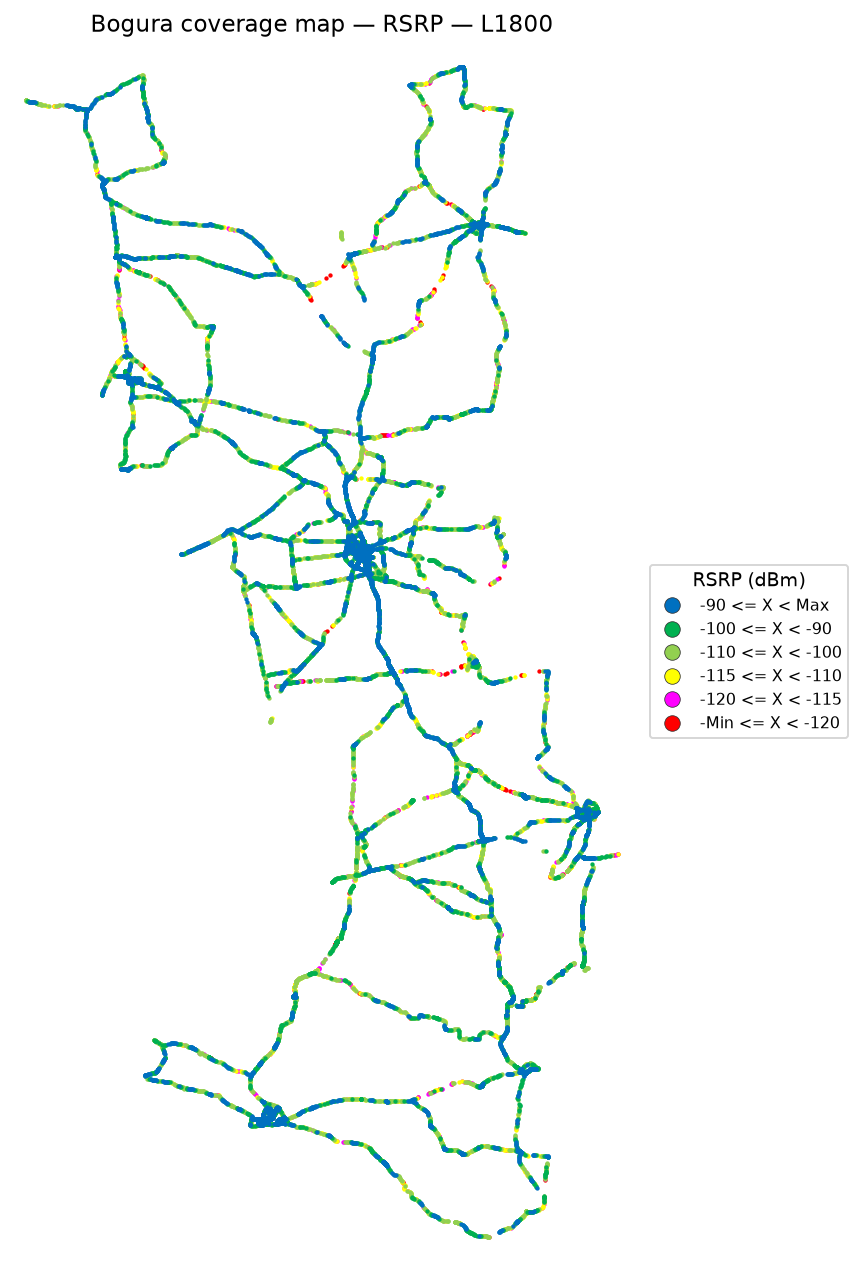
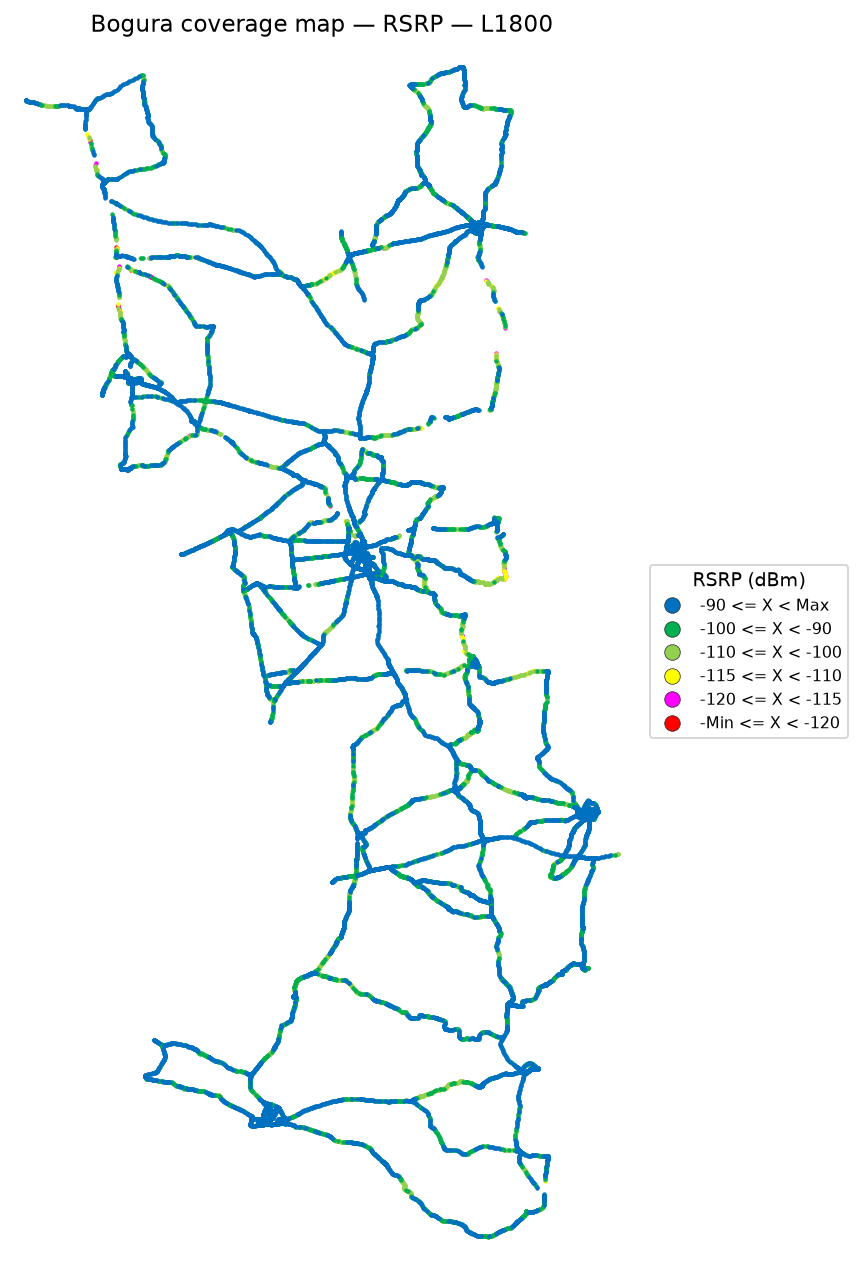
Rebuild v1.19 report from Idle V2.0 scanner logs
Maps use Borga_Idle_V2.0 (1.18M detections, 15 CSVs). KPI sheets stay
drive-only; Bad Spot Analysis still includes site pies.

diff --git a/output/analysis_summary.md b/output/analysis_summary.md
@@ -2,50 +2,60 @@
 
 ## What the source files are
 
-- `Bogura_P1.part1.rar` … `Bogura_P1.part5.rar` are one split RAR volume set. Extracting them yields **Bogura_P1.xlsx** (Part 1 of the drive test).
-- `Bogura_P2.rar` is already a complete archive. Extracting it yields **Bogura_P2.xlsx** (Part 2).
-- Both workbooks use the same 8 columns: Time, RSRP, RSRQ, SINR, Longitude, Latitude, Cell Id, DL EARFCN.
-- Concatenating P1 then P2 produces the **final log**: `output/Bogura_merged.csv.gz`.
+- `Borga_Idle_V2.0.7z` is the IDLE Mode scanner export (folder `Borga_Idle_V2.0/` with `1.csv` … `15.csv`).
+- Columns include Time, Longitude, Latitude, Cell Id, DL EARFCN, and scanner KPIs `NB RSRP` / `NB RSRQ` / `NB RS SINR` (renamed to RSRP / RSRQ / SINR).
+- Concatenating the 15 CSVs produces the **final log**: `output/Bogura_merged.csv.gz`.
 
 ## Row counts
 
-- P1: 1,015,226 samples
-- P2: 60,159 samples
-- Merged: 1,075,385 samples
+- CSV files: 15
+- Merged scanner detections: 1,178,276 samples
 
 ## Time and area
 
-- P1: 2026-05-11 13:01:28.303000 → 2026-05-20 18:16:38.412000; lon 88.87569–89.75081, lat 23.83306–25.56161
-- P2: 2026-05-21 09:49:55.536000 → 2026-05-21 14:07:35.787000; lon 89.32870–89.64711, lat 23.91553–24.42916
+- 1.csv: 2026-05-11 13:01:29.878000 → 2026-05-11 18:50:10.709000; lon 89.10423–89.75081, lat 24.39244–24.87869
+- 2.csv: 2026-05-12 08:09:53.466000 → 2026-05-12 15:57:13.407000; lon 89.35092–89.58578, lat 24.78635–24.90211
+- 3.csv: 2026-05-12 16:00:18.164000 → 2026-05-13 18:51:03.176000; lon 89.18838–89.69032, lat 24.41795–25.02303
+- 4.csv: 2026-05-13 08:10:02.652000 → 2026-05-13 14:04:32.790000; lon 89.19661–89.54474, lat 24.59393–24.90163
+- 5.csv: 2026-05-14 08:11:19.677000 → 2026-05-14 21:38:41.140000; lon 88.98762–89.63143, lat 23.90495–25.26850
+- 6.csv: 2026-05-14 14:11:54.894000 → 2026-05-14 18:58:41.240000; lon 89.01444–89.37310, lat 24.84484–25.17747
+- 7.csv: 2026-05-15 08:40:47.132000 → 2026-05-16 16:15:57.832000; lon 89.24648–89.69026, lat 23.83306–24.80621
+- 8.csv: 2026-05-16 08:09:28.107000 → 2026-05-16 13:54:13.864000; lon 89.34830–89.40431, lat 24.80596–24.87997
+- 9.csv: 2026-05-16 16:16:50.547000 → 2026-05-18 16:00:40.773000; lon 89.00137–89.70179, lat 24.36253–25.55249
+- 10.csv: 2026-05-17 08:36:28.110000 → 2026-05-20 17:09:35.830000; lon 89.36907–89.61400, lat 24.30490–25.56161
+- 11.csv: 2026-05-18 09:10:59.206000 → 2026-05-18 14:26:20.538000; lon 88.87570–89.38816, lat 25.12611–25.54954
+- 12.csv: 2026-05-19 08:54:01.122000 → 2026-05-19 13:16:31.701000; lon 89.05164–89.43594, lat 24.01020–24.62607
+- 13.csv: 2026-05-19 13:17:57.957000 → 2026-05-20 15:22:25.740000; lon 89.20648–89.69800, lat 23.99574–24.33376
+- 14.csv: 2026-05-20 09:57:34.560000 → 2026-05-20 13:28:35.500000; lon 89.68255–89.72066, lat 24.22735–24.47755
+- 15.csv: 2026-05-21 09:47:15.621000 → 2026-05-21 14:07:39.580000; lon 89.32870–89.64711, lat 23.91517–24.42915
 
 ## Radio KPIs (merged)
 
-- RSRP: n=1,075,385  min=-140.0  p5=-119.0  mean=-99.1  median=-99.5  p95=-78.4  max=-48.9
-- RSRQ: n=1,075,385  min=-30.0  p5=-17.3  mean=-10.9  median=-10.2  p95=-6.3  max=10.0
-- SINR: n=816,456  min=-20.0  p5=-4.0  mean=8.4  median=8.0  p95=22.2  max=31.1 (blank SINR samples are skipped)
+- RSRP: n=1,177,963  min=-155.2  p5=-132.7  mean=-101.3  median=-100.3  p95=-71.9  max=-44.5
+- RSRQ: n=1,177,963  min=-59.7  p5=-33.6  mean=-19.6  median=-18.4  p95=-10.9  max=0.0
+- SINR: n=1,163,267  min=-41.3  p5=-19.8  mean=-3.5  median=-5.0  p95=17.2  max=45.0 (blank SINR samples are skipped)
 
 ## RSRP ranges (dBm)
 
-- -90 <= X < Max: 267,985 (24.9%)
-- -100 <= X < -90: 288,629 (26.8%)
-- -110 <= X < -100: 310,445 (28.9%)
-- -115 <= X < -110: 105,403 (9.8%)
-- -120 <= X < -115: 58,952 (5.5%)
-- -Min <= X < -120: 43,971 (4.1%)
+- -90 <= X < Max: 328,354 (27.9%)
+- -100 <= X < -90: 252,506 (21.4%)
+- -110 <= X < -100: 232,485 (19.7%)
+- -115 <= X < -110: 88,230 (7.5%)
+- -120 <= X < -115: 68,671 (5.8%)
+- -Min <= X < -120: 207,717 (17.6%)
 
 ## Bands (from DL EARFCN)
 
-- B3 1800 MHz (3): 542,758 (50.5%)
-- B1 2100 MHz (1): 455,361 (42.3%)
-- B41 2500 MHz (41): 69,783 (6.5%)
-- B8 900 MHz (8): 7,483 (0.7%)
+- B8 900 MHz (8): 334,480 (28.4%)
+- B1 2100 MHz (1): 298,935 (25.4%)
+- B3 1800 MHz (3): 277,097 (23.5%)
+- B41 2500 MHz (41): 267,764 (22.7%)
 
-- Unique Cell Ids: 2,521
+- Unique Cell Ids: 5,132
 
 ## Notes
 
-- P1 covers multiple drive days (11–20 May 2026). P2 is a shorter session on 21 May 2026.
-- About 24% of samples have no SINR (typical when the logger recorded neighbor cells).
-- Band 41 (TDD 2500) appears as EARFCN ~40742 / 40940 / 41138.
+- Campaign is **Scanner** (NB RSRP / NB RSRQ / NB RS SINR). Coverage maps use the strongest RSRP at each timestamp so weak neighbors do not paint over the route.
+- Files 1.csv–15.csv cover 11–21 May 2026. Operator is Robi. Layers: L900 (B8), L1800 (B3), L2100 (B1), L2600 (B41).
 
 Plots are written to `output/plots/`.

diff --git a/README.md b/README.md
@@ -65,7 +65,7 @@ python merge_and_analyze.py --from-merged
 | Item | Value |
 | --- | --- |
 | Archive | Borga_Idle_V2.0.7z (15 CSVs) |
-| Scanner detections | ~1.18 million (11–21 May 2026) |
+| Scanner detections | 1,178,276 (11–21 May 2026) |
 | Operator | Robi |
 | Layers | L900 / L1800 / L2100 / L2600 |
 | Dominant bands | B3 1800 (50.5%), B1 2100 (42.3%), B41 2500 (6.5%), B8 900 (0.7%) |
